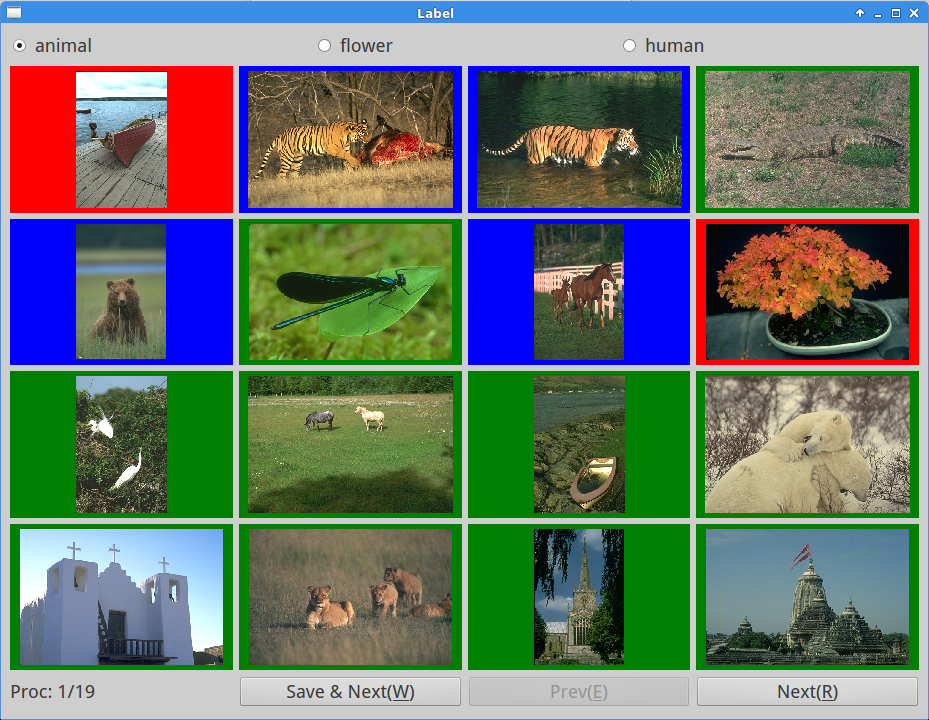
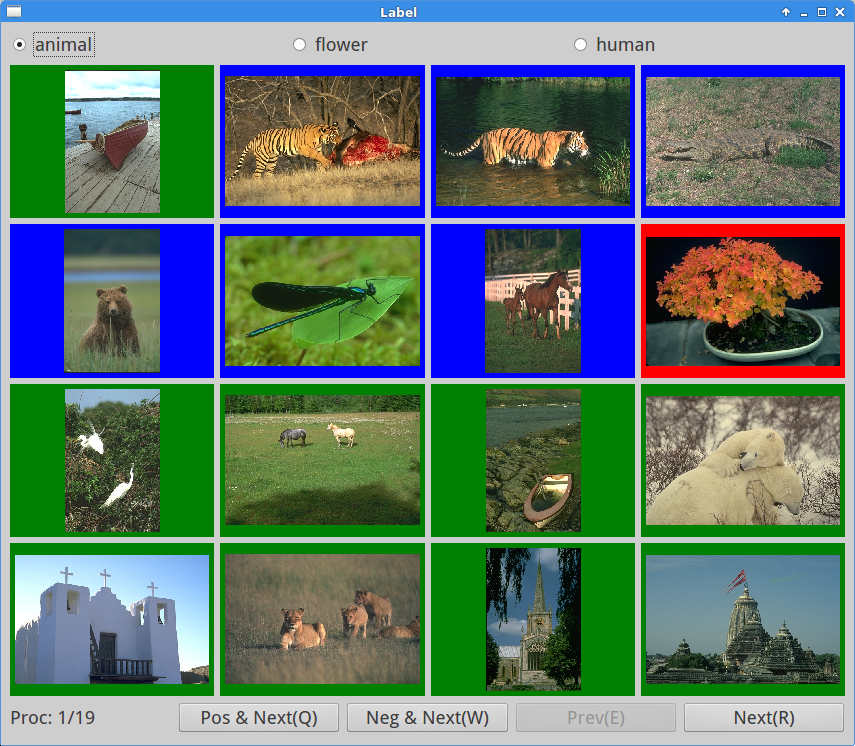
Update the README.md

Changed region(s): [[0.0, 0.0, 1.0, 1.0]]

diff --git a/README.md b/README.md
@@ -33,6 +33,10 @@ After start the program, you will see the following UI.  There are 3 parts in th
 In this example, the label list contains: `animal`, `flower` and `human`, which are specified in `label.cfg`
 After choosing a label from the list, you can start labeling.
 
+```
+TIPS: Press F1~F12 to select the first ~ twelfth label.
+```
+
 #### Middle: Image browser
 
 The are 3 different background colors for each image:
@@ -51,9 +55,10 @@ Operations related to Image Browser:
 
 The are three buttons at the bottom:
 
-1. `Prev(E)`(HotKey: `E`): move to the previous page.
-2. `Next(R)`(HotKey: `R`): move to the next page.
-3. `Save & Next(W)`(HotKey: `W`): **mark all the Green images to Red**, and then move to the next page. 
+1. `Pos & Next(Q)`(HotKey: `Q`): **mark all the Green images to Blue**, then move to the next page. 
+2. `Neg & Next(W)`(HotKey: `W`): **mark all the Green images to Red**, then move to the next page. 
+3. `Prev(E)`      (HotKey: `E`): move to the previous page.
+4. `Next(R)`      (HotKey: `R`): move to the next page.
 
 # How to get the labels?
 
@@ -62,4 +67,4 @@ The label information will be stored in a sqlite3 database, which can be accesse
 1. [sqlitebrowser](http://sqlitebrowser.org)
 2. [SQLite Manager](https://addons.mozilla.org/En-us/firefox/addon/sqlite-manager)
 
-Positive samples will be marked as `t`, negative samples will be marked as `f`, unlabelled samples will be marked as `0`.
+Positive samples will be marked as `1`, negative samples will be marked as `-1`, unlabelled samples will be marked as `0`.
